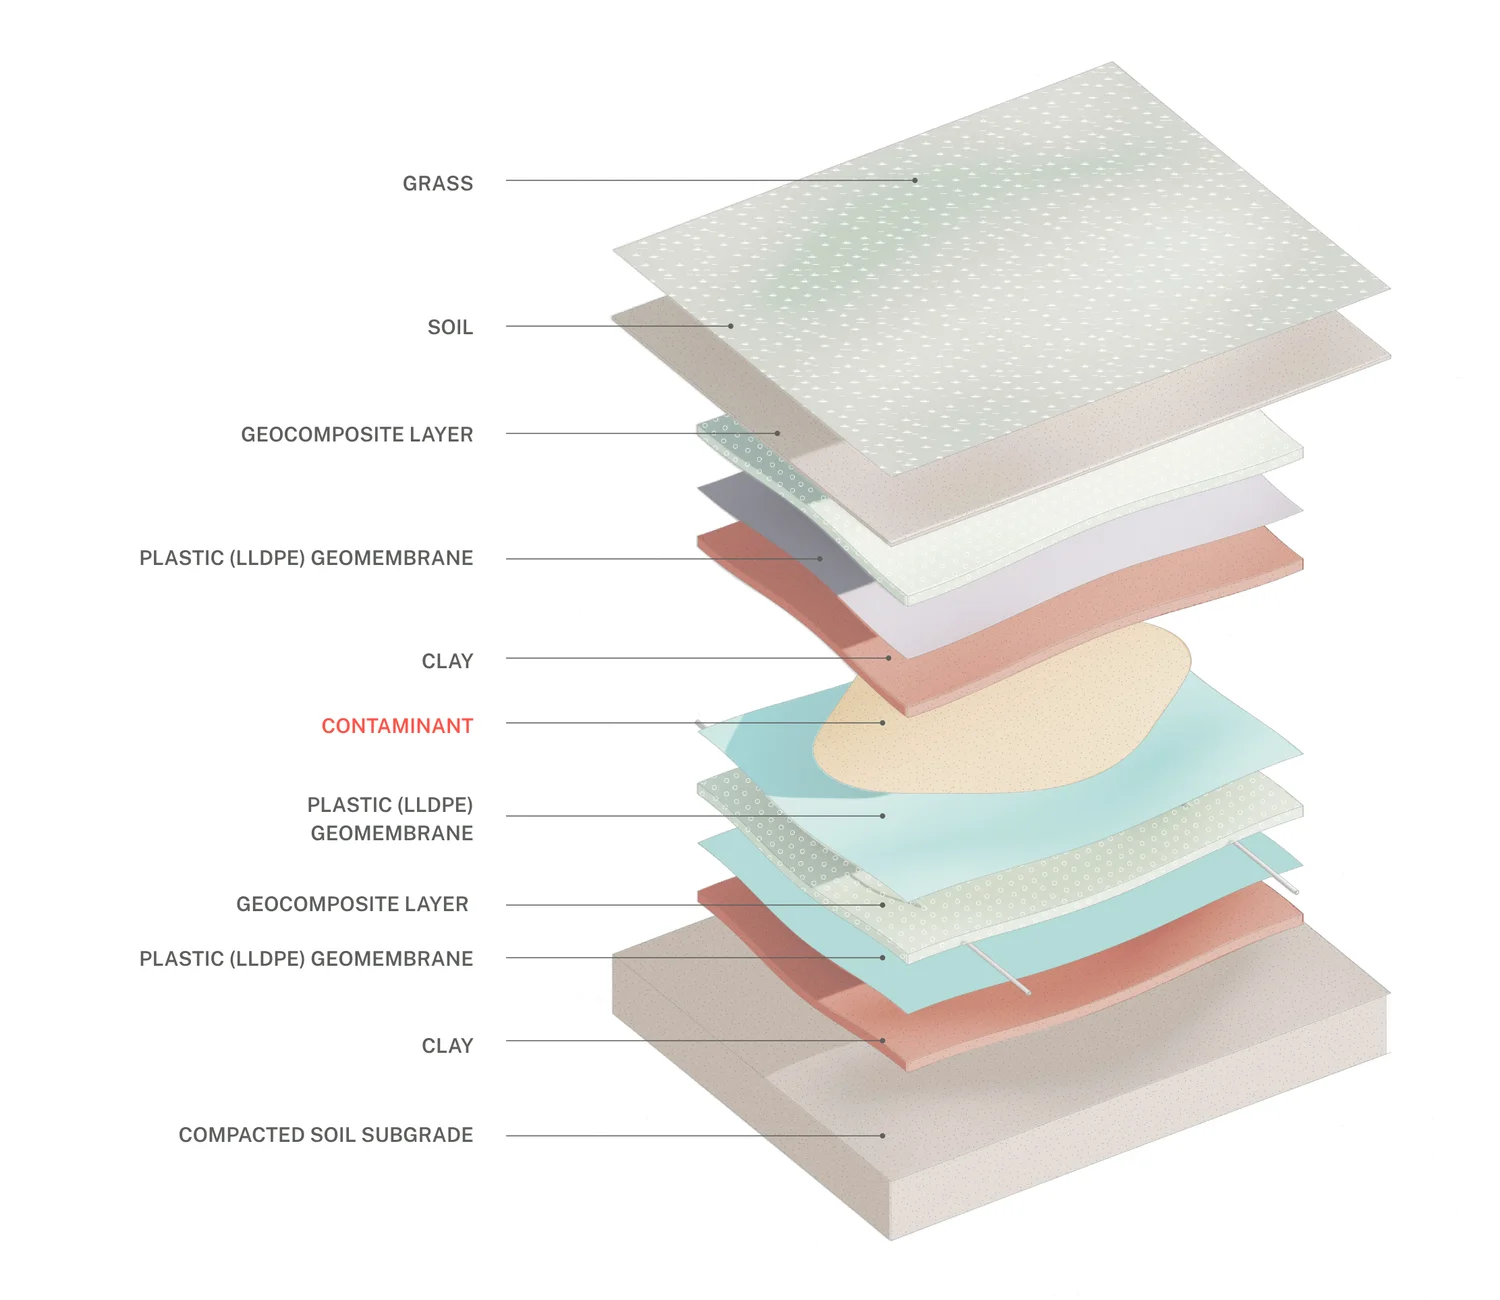
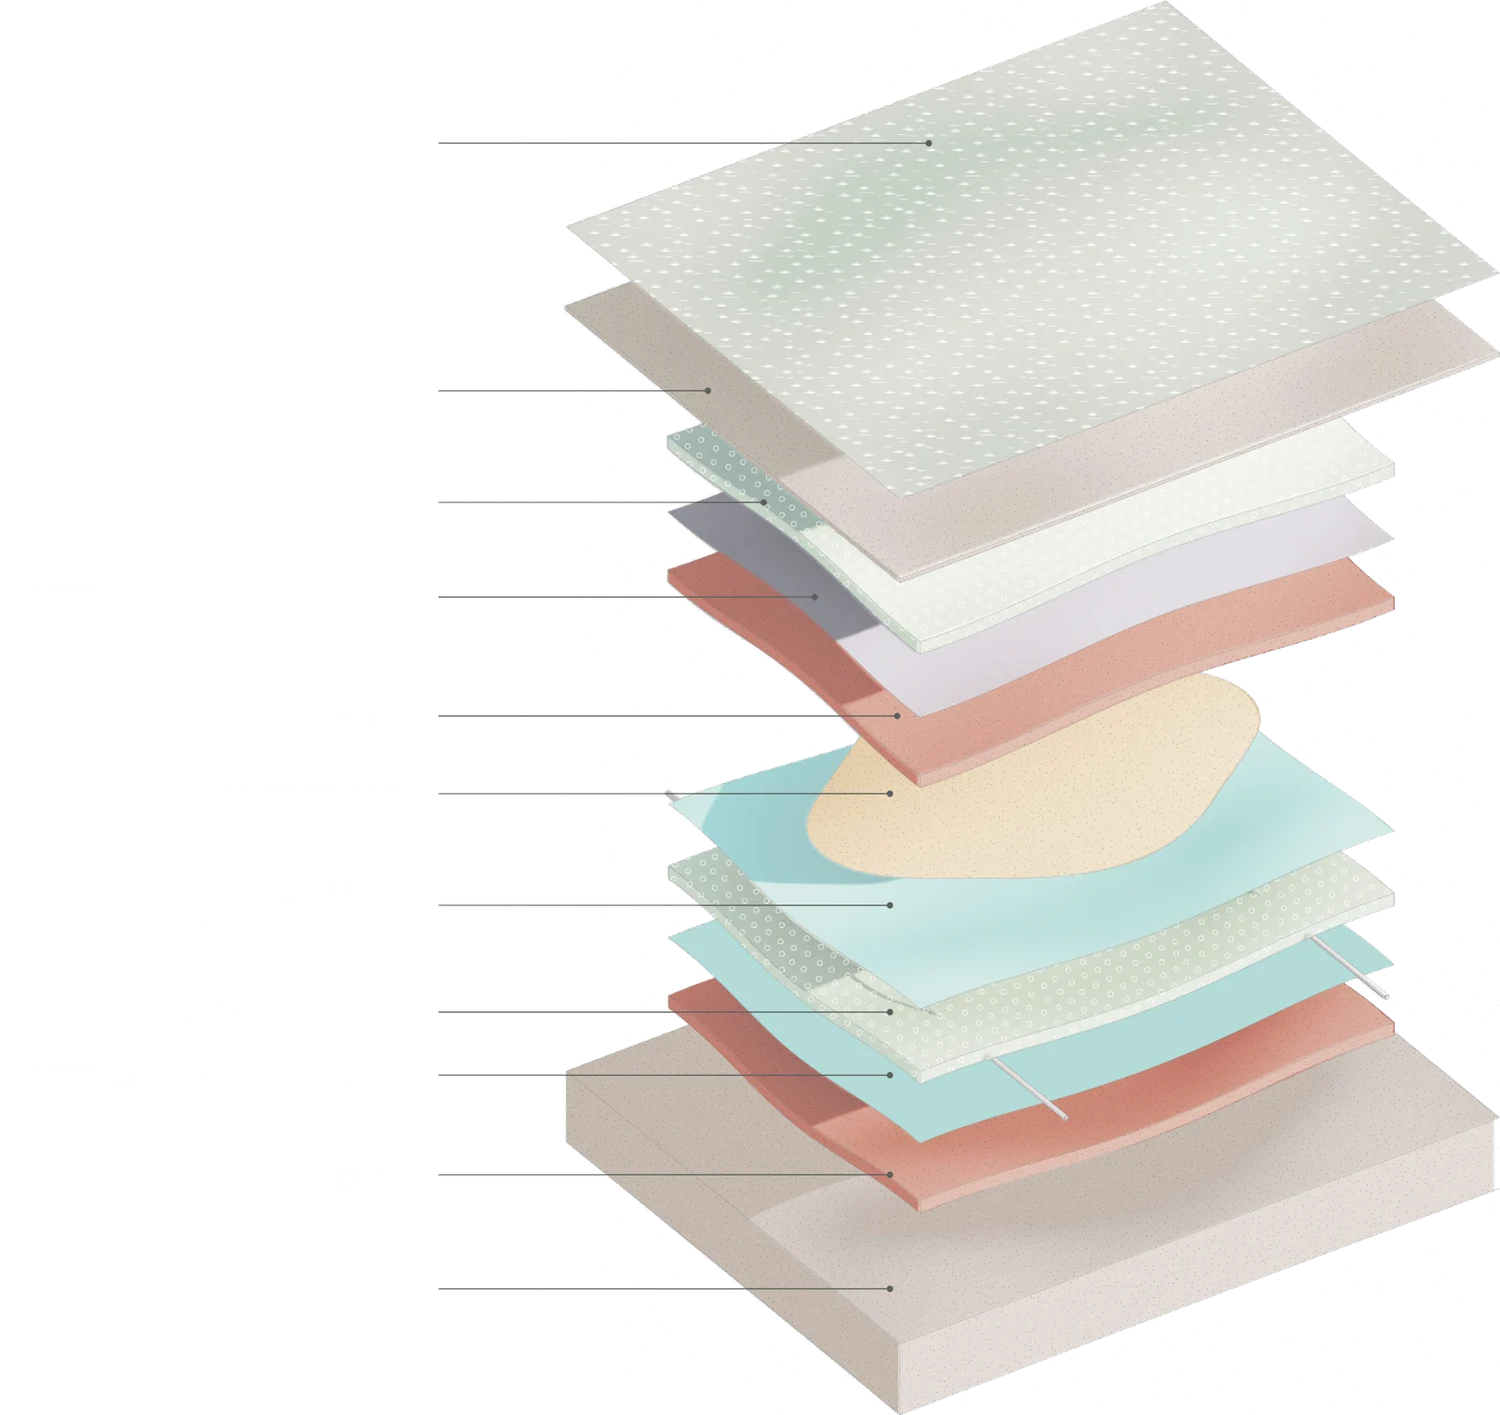
Float the method figures on the theme gradient, labels white and larger
The white-card treatment broke the panels' immersion. Process the
designer's figures at asset-build time so they sit directly on the theme
gradient again, the way the original design did:

- Knock out the exported white ground with a border flood fill, so whites
  inside the artwork survive.
- Repaint the label ink white (per connected component: any ink component
  whose bounding box sits fully in the label zone is text; the artwork,
  leaders included, is one component and stays untouched). Antialiasing is
  preserved by deriving alpha from ink darkness.
- Trim the figures' empty margins and enlarge the layout (stage 540->580,
  tighter open-grid padding, figure max 720x540 with a drop shadow), which
  reads the labels ~25% larger.
- Landfill artwork swapped for the corrected source (fixed leader in the
  original Figma export).

Claude-Session: https://claude.ai/code/session_0162ZbwK7cUKGE1rpfdzmk7Z

diff --git a/src/pages/Story.css b/src/pages/Story.css
@@ -2985,7 +2985,7 @@
 .methods-stage {
   display: flex;
   gap: 12px;
-  min-height: 540px;
+  min-height: 580px;
 }
 .method-panel {
   position: relative;
@@ -3105,10 +3105,10 @@
 .method-open-grid {
   height: 100%;
   display: grid;
-  grid-template-columns: minmax(220px, 300px) 1fr;
-  gap: 26px;
+  grid-template-columns: minmax(210px, 280px) 1fr;
+  gap: 22px;
   align-items: center;
-  padding: 26px 26px 22px 40px;
+  padding: 20px 22px 18px 36px;
   animation: method-fade 0.35s ease 0.15s both;
 }
 @keyframes method-fade {
@@ -3140,17 +3140,14 @@
 
 /* The annotated diagram (open state): labels left, image right. */
 /* The labelled figure is the designer's own artwork (diagram + leaders +
-   labels baked in) on a white ground, floated as a card over the panel's
-   theme gradient so its dark labels stay legible. */
+   labels baked in). The white ground is knocked out and the label ink turned
+   white at build time (scripts note in methods.ts), so the figure floats
+   straight on the panel's theme gradient — no card, full immersion. */
 .method-open-grid .method-diagram {
   margin: 0;
-  max-width: 640px;
+  max-width: 720px;
   width: 100%;
   justify-self: end;
-  background: #ffffff;
-  border-radius: 10px;
-  box-shadow: 0 14px 44px rgba(0, 0, 0, 0.18);
-  overflow: hidden;
   display: flex;
   align-items: center;
   justify-content: center;
@@ -3158,9 +3155,10 @@
 .method-figure {
   display: block;
   width: 100%;
-  max-height: 468px;
+  max-height: 540px;
   object-fit: contain;
   height: auto;
+  filter: drop-shadow(0 10px 28px rgba(0, 0, 0, 0.22));
 }
 
 @media (max-width: 900px) {

diff --git a/src/content/actions/methods.ts b/src/content/actions/methods.ts
@@ -2,6 +2,9 @@
 // project's Rhino-modelled exploded axonometrics. The full labelled figure
 // (diagram + leader lines + labels) is the designer's own artwork, exported
 // straight from Figma, so the leaders are pixel-accurate by construction.
+// The exported white ground is knocked out (border flood fill) and the label
+// ink repainted white at asset-build time, so the figure floats directly on
+// the panel's theme gradient.
 
 import landfillFig from '../../assets/actions/figure-landfill.webp'
 import thermalFig from '../../assets/actions/figure-thermal.webp'
